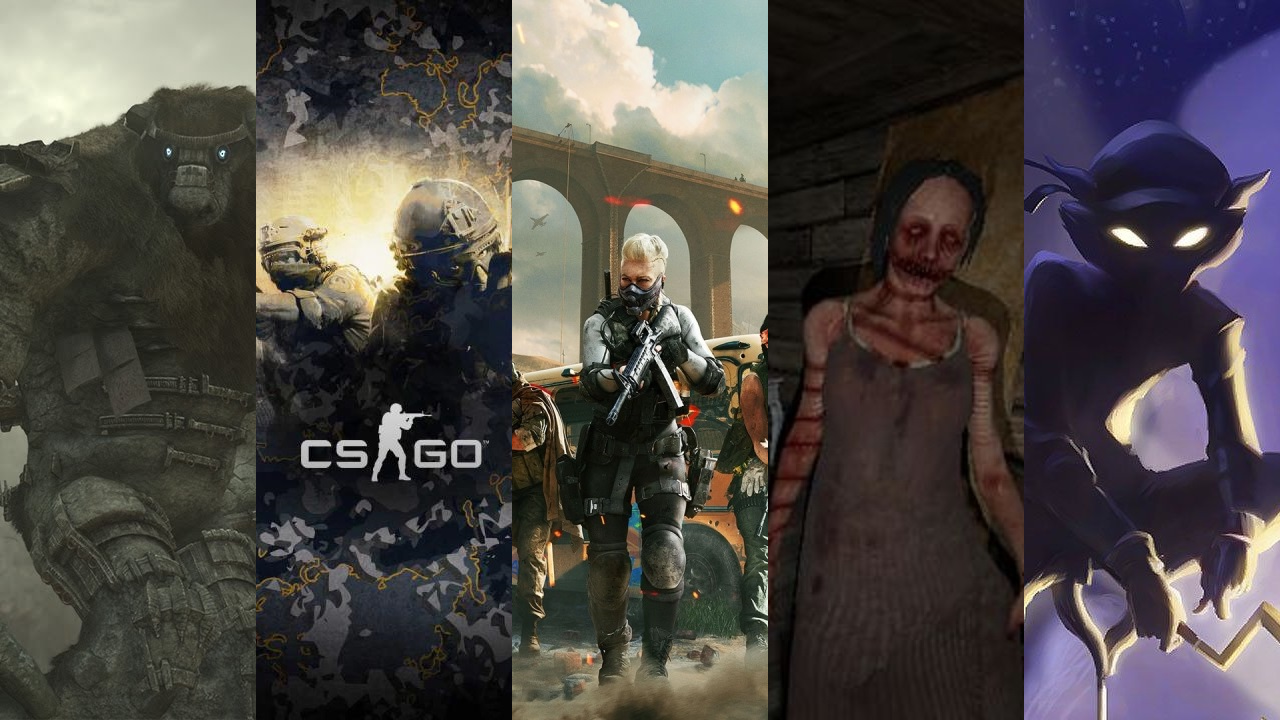
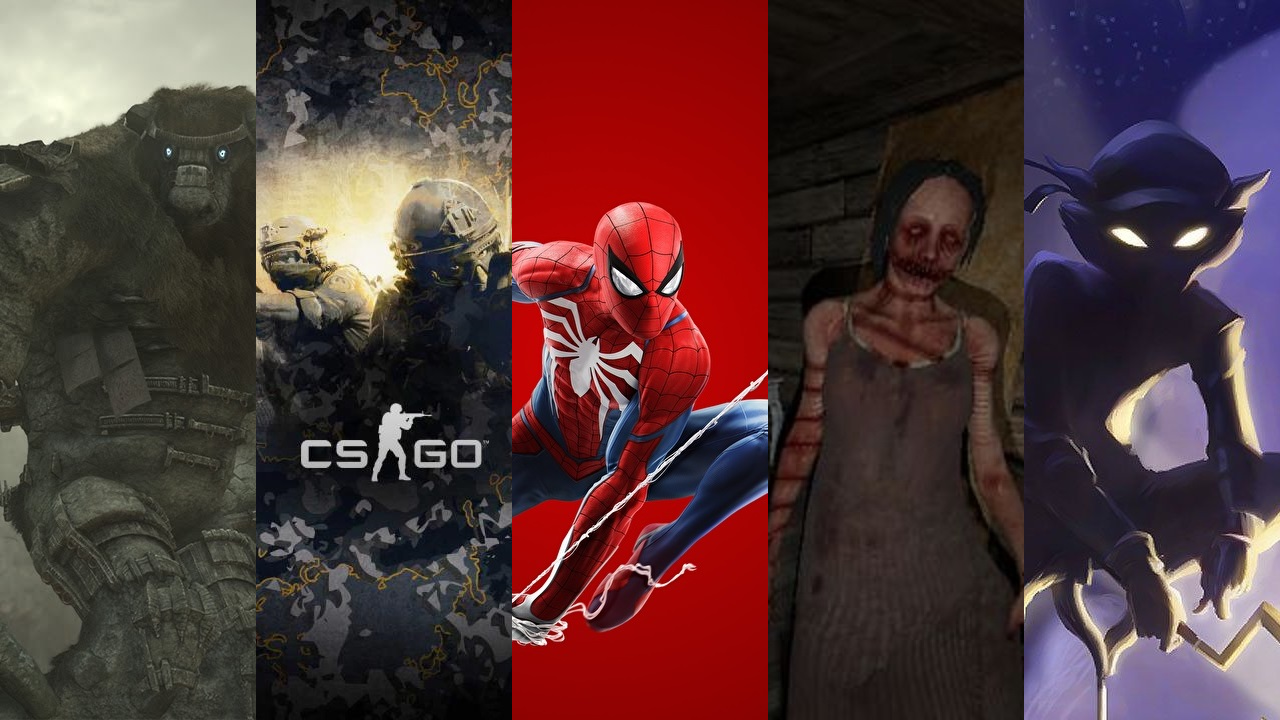
Fix dos redirects em cada uma das páginas e inserção da nova imagem da homepage

Changed region(s): [[0.375, 0.0, 0.625, 1.0]]

diff --git a/paginas/sotc.html b/paginas/sotc.html
@@ -31,7 +31,7 @@
     <p>O enredo do jogo se concentra em um jovem chamado Wander, que deve viajar por uma terra proibida com 
     o objetivo de derrotar dezesseis criaturas, conhecidas simplesmente como "Colossi", para restaurar 
     a vida de uma garota chamada Mono.</p>
-    <p>Assista o trailer do remake do jogo, lançado para PlayStation 4 em fevereiro de 2018: </p>
+    <p>Assista ao trailer do remake do jogo, lançado para PlayStation 4 em fevereiro de 2018: </p>
 
     <iframe width="640" height="360"
       src="https://www.youtube.com/embed/pdZQ98mWeto">
@@ -42,7 +42,7 @@
   </section>
   <article>
     <p>O jogo foi extremamente bem recebido, sendo premiado em diversos eventos e em diversas categorias
-    diferentes, alguns desses prêmios incluem:</p>
+    diferentes. Alguns desses prêmios incluem:</p>
     <table>
       <tr>
         <th>Evento</th>
@@ -96,7 +96,7 @@
     <ul>
       <li><a href="sotc.html">Shadow of the Colossus</a></li>
       <li><a href="csgo.html">Counter-Strike: Global Offensive</a></li>
-      <li><a href="warzone.html">Call of Duty: Warzone</a></li>
+      <li><a href="spiderman.html">Spider-Man</a></li>
       <li><a href="phasmophobia.html">Phasmophobia</a></li>
       <li><a href="slycooper.html">Sly Cooper</a></li>
     </ul>

diff --git a/index.html b/index.html
@@ -39,7 +39,7 @@
     <map name="map-jogos">
       <area shape="rect" coords="0,0,127,360" href="paginas/sotc.html">
       <area shape="rect" coords="128,0,255,360" href="paginas/csgo.html">
-      <area shape="rect" coords="256,0,383,360" href="paginas/warzone.html">
+      <area shape="rect" coords="256,0,383,360" href="paginas/spiderman.html">
       <area shape="rect" coords="384,0,511,360" href="paginas/phasmophobia.html">
       <area shape="rect" coords="512,0,640,360" href="paginas/slycooper.html">
     </map>
@@ -62,7 +62,7 @@
       </tr>
       <tr>
         <th>Bruno Prates</th>
-        <th><a href="paginas/warzone.html">Call of Duty: Warzone</a></th>
+        <th><a href="paginas/spiderman.html">Spider-Man</a></th>
       </tr>
       <tr>
         <th>Guilherme Bescaino</th>
@@ -79,7 +79,7 @@
     <ul>
       <li><a href="paginas/sotc.html">Shadow of the Colossus</a></li>
       <li><a href="paginas/csgo.html">Counter-Strike: Global Offensive</a></li>
-      <li><a href="paginas/warzone.html">Call of Duty: Warzone</a></li>
+      <li><a href="paginas/spiderman.html">Spider-Man</a></li>
       <li><a href="paginas/phasmophobia.html">Phasmophobia</a></li>
       <li><a href="paginas/slycooper.html">Sly Cooper</a></li>
     </ul>

diff --git a/paginas/spiderman.html b/paginas/spiderman.html
@@ -14,9 +14,9 @@
   <nav>
     <hr>
       <p>
-      <a href="slycooper.html">&lt;&lt;Artigo anterior</a>&nbsp;&nbsp;&nbsp;
+      <a href="csgo.html">&lt;&lt;Artigo anterior</a>&nbsp;&nbsp;&nbsp;
       <a href="../index.html">Página principal</a>&nbsp;&nbsp;&nbsp;
-      <a href="csgo.html">Próximo artigo&gt;&gt;</a>
+      <a href="phasmophobia.html">Próximo artigo&gt;&gt;</a>
       </p>
     <hr>
   </nav>
@@ -70,7 +70,7 @@
     <ul>
       <li><a href="sotc.html">Shadow of the Colossus</a></li>
       <li><a href="csgo.html">Counter-Strike: Global Offensive</a></li>
-      <li><a href="warzone.html">Call of Duty: Warzone</a></li>
+      <li><a href="spiderman.html">Spider-Man</a></li>
       <li><a href="phasmophobia.html">Phasmophobia</a></li>
       <li><a href="slycooper.html">Sly Cooper</a></li>
     </ul>

diff --git a/paginas/slycooper.html b/paginas/slycooper.html
@@ -14,9 +14,9 @@
     <hr>
 
     <p>
-    <a href="slycooper.html">&lt;&lt;Artigo anterior</a>&nbsp;&nbsp;&nbsp;
+    <a href="phasmophobia.html">&lt;&lt;Artigo anterior</a>&nbsp;&nbsp;&nbsp;
     <a href="../index.html">Página principal</a>&nbsp;&nbsp;&nbsp;
-    <a href="csgo.html">Próximo artigo&gt;&gt;</a>
+    <a href="sotc.html">Próximo artigo&gt;&gt;</a>
     </p>
 
     <hr>
@@ -71,7 +71,7 @@
       <ul>
         <li><a href="sotc.html">Shadow of the Colossus</a></li>
       <li><a href="csgo.html">Counter-Strike: Global Offensive</a></li>
-      <li><a href="warzone.html">Call of Duty: Warzone</a></li>
+      <li><a href="spiderman.html">Spider-Man</a></li>
       <li><a href="phasmophobia.html">Phasmophobia</a></li>
       <li><a href="slycooper.html">Sly Cooper</a></li>
       </ul>

diff --git a/paginas/phasmophobia.html b/paginas/phasmophobia.html
@@ -13,7 +13,7 @@
     <hr>
 
     <p>
-    <a href="warzone.html">&lt;&lt;Artigo anterior</a>&nbsp;&nbsp;&nbsp;
+    <a href="spiderman.html">&lt;&lt;Artigo anterior</a>&nbsp;&nbsp;&nbsp;
     <a href="../index.html">Página principal</a>&nbsp;&nbsp;&nbsp;
     <a href="slycooper.html">Próximo artigo&gt;&gt;</a>
     </p>
@@ -64,7 +64,7 @@
     <ul>
       <li><a href="sotc.html">Shadow of the Colossus</a></li>
       <li><a href="csgo.html">Counter-Strike: Global Offensive</a></li>
-      <li><a href="warzone.html">Call of Duty: Warzone</a></li>
+      <li><a href="spiderman.html">Spider-Man</a></li>
       <li><a href="phasmophobia.html">Phasmophobia</a></li>
       <li><a href="slycooper.html">Sly Cooper</a></li>
     </ul>

diff --git a/paginas/csgo.html b/paginas/csgo.html
@@ -15,7 +15,7 @@
     <p>
     <a href="sotc.html">&lt;&lt;Artigo anterior</a>&nbsp;&nbsp;&nbsp;
     <a href="../index.html">Página principal</a>&nbsp;&nbsp;&nbsp;
-    <a href="warzone.html">Próximo artigo&gt;&gt;</a>
+    <a href="spiderman.html">Próximo artigo&gt;&gt;</a>
     </p>
 
     <hr>
@@ -91,7 +91,7 @@
     <ul>
       <li><a href="sotc.html">Shadow of the Colossus</a></li>
       <li><a href="csgo.html">Counter-Strike: Global Offensive</a></li>
-      <li><a href="warzone.html">Call of Duty: Warzone</a></li>
+      <li><a href="spiderman.html">Spider-Man</a></li>
       <li><a href="phasmophobia.html">Phasmophobia</a></li>
       <li><a href="slycooper.html">Sly Cooper</a></li>
     </ul>
